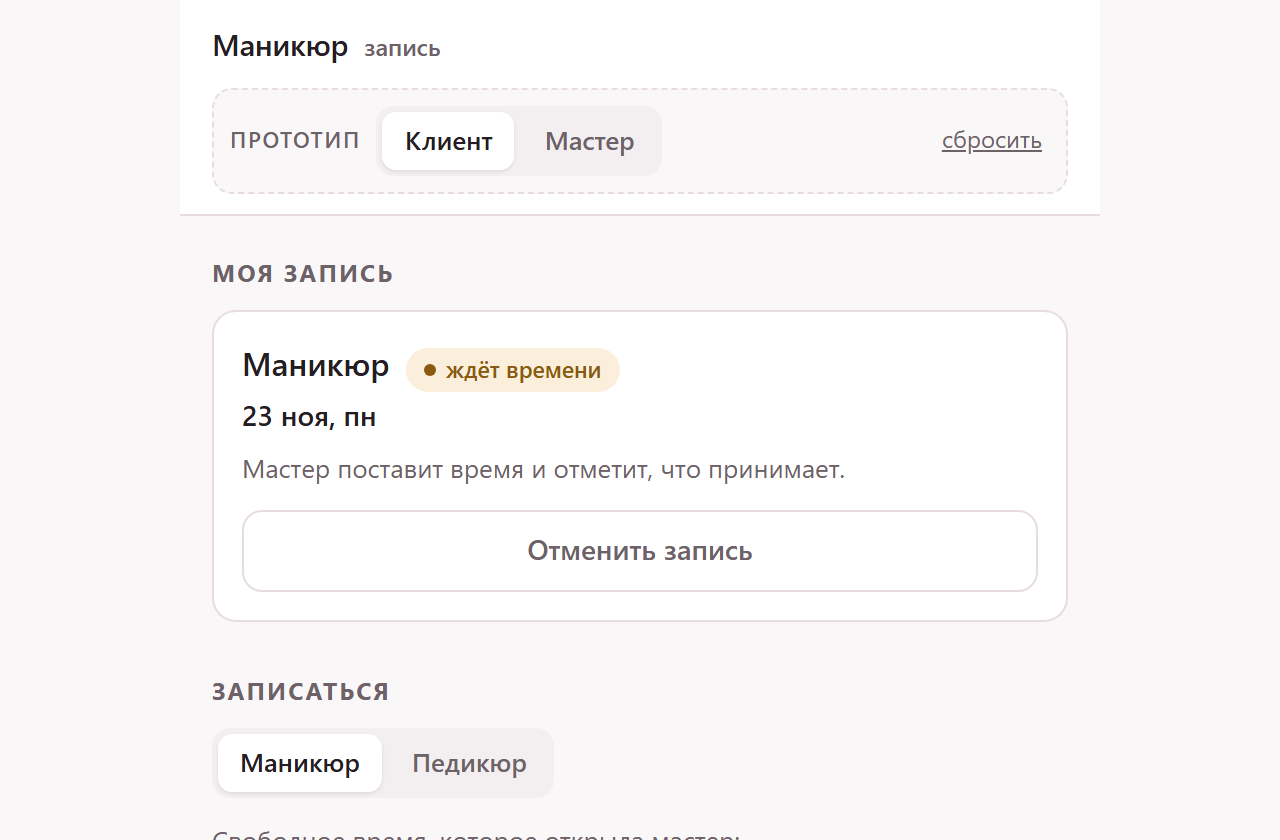
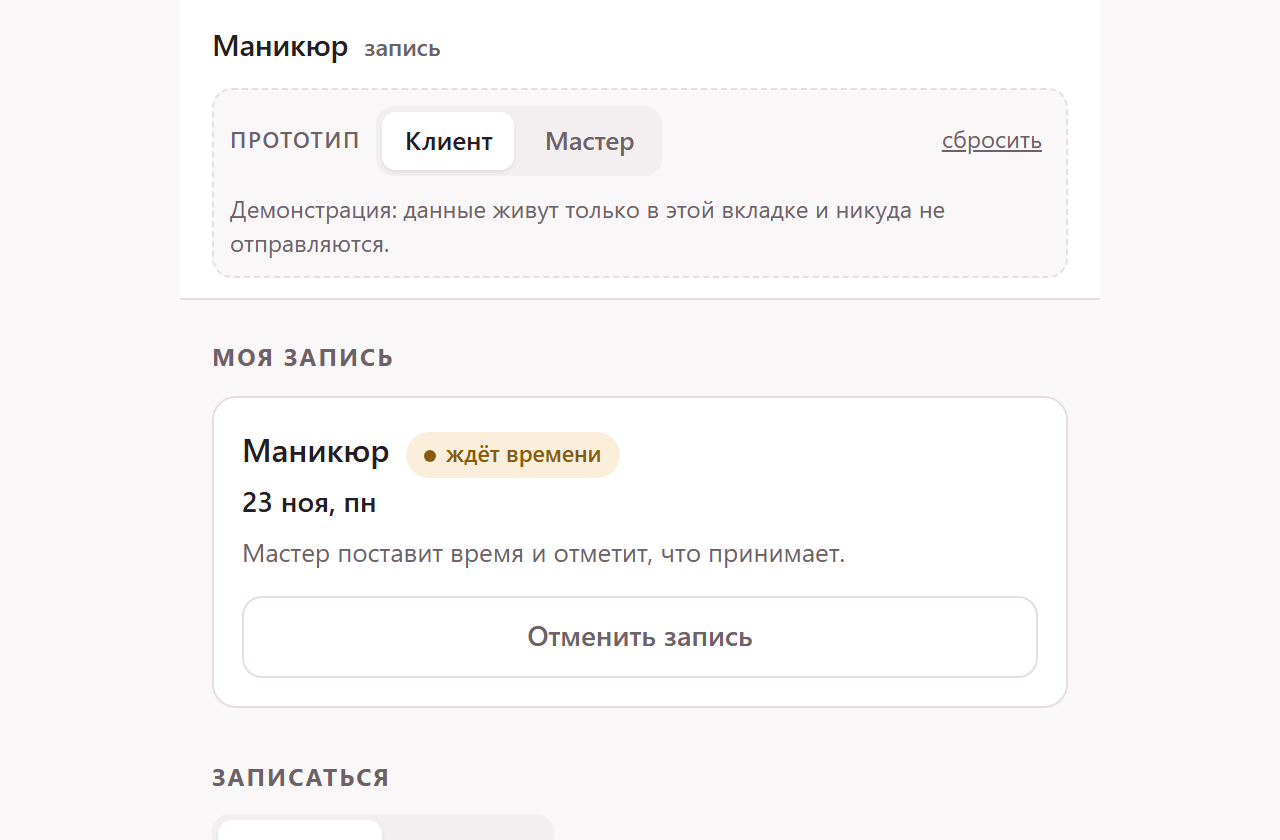
content: show the craft on the page instead of linking out, and stop the booking demo claiming it sent anything
The how-built block no longer promises Instagram breakdowns that do not exist; its items now point at what the visitor can check on this page. The booking prototype says plainly that nothing leaves the tab.

diff --git a/src/i18n/ru.ts b/src/i18n/ru.ts
@@ -48,14 +48,13 @@ export const ru = {
   },
   howBuilt: {
     title: 'Как сделан этот сайт',
-    lead: 'Что в нём сделано иначе, чем на конструкторе, — и как именно.',
-    link: 'Разбор в Instagram ↗',
+    lead: 'Всё перечисленное работает прямо на этой странице — проверьте сами, никуда не уходя.',
     items: [
-      { title: 'Анимации при прокрутке на чистом CSS', text: 'Без тяжёлых библиотек — блоки мягко появляются, когда вы до них доходите.', href: 'https://www.instagram.com/ritaexpert50/' },
-      { title: 'Плавные переходы между страницами', text: 'Как в приложении: страница не «мигает», а перетекает в следующую.', href: 'https://www.instagram.com/ritaexpert50/' },
-      { title: 'Тёмная и светлая тема', text: 'Сайт сам подстраивается под настройки вашего телефона.', href: 'https://www.instagram.com/ritaexpert50/' },
-      { title: 'Скорость 90+ из 100 в Google Lighthouse', text: 'Быстро открывается даже на мобильном интернете.', href: 'https://www.instagram.com/ritaexpert50/' },
-      { title: 'Без cookie-баннера', text: 'Аналитика, которая не следит за посетителями, — и никаких всплывающих окон.', href: 'https://www.instagram.com/ritaexpert50/' },
+      { title: 'Анимации при прокрутке на чистом CSS', text: 'Без тяжёлых библиотек — блоки мягко появляются, когда вы до них доходите.' },
+      { title: 'Плавные переходы между страницами', text: 'Как в приложении: страница не «мигает», а перетекает в следующую.' },
+      { title: 'Тёмная и светлая тема', text: 'Сайт сам подстраивается под настройки вашего телефона. Кружок в шапке переключает вручную — попробуйте.' },
+      { title: 'Скорость 90+ из 100 в Google Lighthouse', text: 'Быстро открывается даже на мобильном интернете.' },
+      { title: 'Без cookie-баннера', text: 'Аналитика, которая не следит за посетителями, — и никаких всплывающих окон.' },
     ],
   },
   about: {

diff --git a/public/works/zapis/index.html b/public/works/zapis/index.html
@@ -144,6 +144,7 @@ body::before {
   cursor: pointer;
 }
 .seg button[aria-pressed="true"] { background: var(--surface); color: var(--fg); box-shadow: 0 1px 2px rgba(0,0,0,.08); }
+.demo-note { flex: 1 1 100%; order: 9; margin: 0; font-size: 12px; color: var(--muted); }
 .link-btn {
   font: inherit; font-size: 12px; border: 0; background: none;
   color: var(--muted); text-decoration: underline; cursor: pointer; padding: 4px;
@@ -325,6 +326,7 @@ tr.is-off td.name { text-decoration: line-through; }
     <div class="brand">Маникюр <span>запись</span></div>
     <div class="demo">
       <span class="demo-label">Прототип</span>
+      <p class="demo-note">Демонстрация: данные живут только в этой вкладке и никуда не отправляются.</p>
       <div class="seg" role="group" aria-label="Чьими глазами смотреть">
         <button type="button" id="role-client" aria-pressed="true">Клиент</button>
         <button type="button" id="role-master" aria-pressed="false">Мастер</button>
@@ -632,7 +634,7 @@ tr.is-off td.name { text-decoration: line-through; }
       s.slots = s.slots.filter(function (x) { return x.id !== id; });
       s.records.push({ id: s.nextId++, who: ME, service: s.service, date: slot.date, time: slot.time, status: "wait_confirm" });
       render();
-      toast("Записались. Мастеру ушло уведомление");
+      toast("Записались — в демонстрации заявка никуда не уходит");
       return;
     }
 
@@ -673,7 +675,7 @@ tr.is-off td.name { text-decoration: line-through; }
     if (act === "cancel") {
       rec.status = "cancelled";
       render();
-      toast(s.role === "master" ? "Запись отменена" : "Запись отменена, мастеру ушло уведомление");
+      toast("Запись отменена");
       return;
     }
 

diff --git a/src/i18n/en.ts b/src/i18n/en.ts
@@ -50,14 +50,13 @@ export const en: Dict = {
   },
   howBuilt: {
     title: 'How this site is built',
-    lead: 'What is done differently here than on a site builder — and how.',
-    link: 'Breakdown on Instagram ↗',
+    lead: 'Everything below is running on this page right now — see for yourself, no need to go anywhere.',
     items: [
-      { title: 'Scroll animations in pure CSS', text: 'No heavy libraries — sections gently appear as you reach them.', href: 'https://www.instagram.com/ritaexpert50/' },
-      { title: 'Smooth page transitions', text: 'Like in an app: pages flow into each other instead of flashing.', href: 'https://www.instagram.com/ritaexpert50/' },
-      { title: 'Dark and light theme', text: 'The site follows your phone’s settings automatically.', href: 'https://www.instagram.com/ritaexpert50/' },
-      { title: '90+ out of 100 in Google Lighthouse', text: 'Opens fast, even on mobile data.', href: 'https://www.instagram.com/ritaexpert50/' },
-      { title: 'No cookie banner', text: 'Analytics that doesn’t track visitors — and no pop-ups.', href: 'https://www.instagram.com/ritaexpert50/' },
+      { title: 'Scroll animations in pure CSS', text: 'No heavy libraries — sections gently appear as you reach them.' },
+      { title: 'Smooth page transitions', text: 'Like in an app: pages flow into each other instead of flashing.' },
+      { title: 'Dark and light theme', text: 'The site follows your phone’s settings automatically. The circle in the header switches it by hand — try it.' },
+      { title: '90+ out of 100 in Google Lighthouse', text: 'Opens fast, even on mobile data.' },
+      { title: 'No cookie banner', text: 'Analytics that doesn’t track visitors — and no pop-ups.' },
     ],
   },
   about: {

diff --git a/tests/e2e/content.spec.ts b/tests/e2e/content.spec.ts
@@ -9,12 +9,11 @@ for (const path of ['/', '/en/']) {
       await expect(page.locator('#process a.btn-primary')).toHaveAttribute('href', '#contact');
     });
 
-    test('«Как сделан этот сайт» — не меньше 4 пунктов со ссылкой на Instagram', async ({ page }) => {
+    test('«Как сделан этот сайт» — не меньше 4 пунктов и никого никуда не отсылает', async ({ page }) => {
       const items = page.locator('#how-built li');
       expect(await items.count()).toBeGreaterThanOrEqual(4);
-      for (const item of await items.all()) {
-        await expect(item.locator('a')).toHaveAttribute('href', /instagram\.com/);
-      }
+      await expect(page.locator('#how-built a[href*="instagram.com"]')).toHaveCount(0);
+      await expect(page.locator('#how-built a[target="_blank"]')).toHaveCount(0);
     });
 
     test('«Обо мне» — фото с alt, три абзаца и без линии новичка', async ({ page }) => {

diff --git a/tests/e2e/works.spec.ts b/tests/e2e/works.spec.ts
@@ -31,6 +31,11 @@ for (const slug of slugs) {
     expect(errors).toEqual([]);
   });
 
+  test(`/works/${slug}/ не утверждает, что что-то отправлено`, () => {
+    const html = readFileSync(new URL(`../../public/works/${slug}/index.html`, import.meta.url), 'utf8');
+    expect(html).not.toMatch(/ушло уведомление|уведомление ушло/i);
+  });
+
   test(`/works/${slug}/ объявляет язык страницы`, () => {
     const html = readFileSync(new URL(`../../public/works/${slug}/index.html`, import.meta.url), 'utf8');
     expect(html).toMatch(/<html[^>]*\slang=/i);
